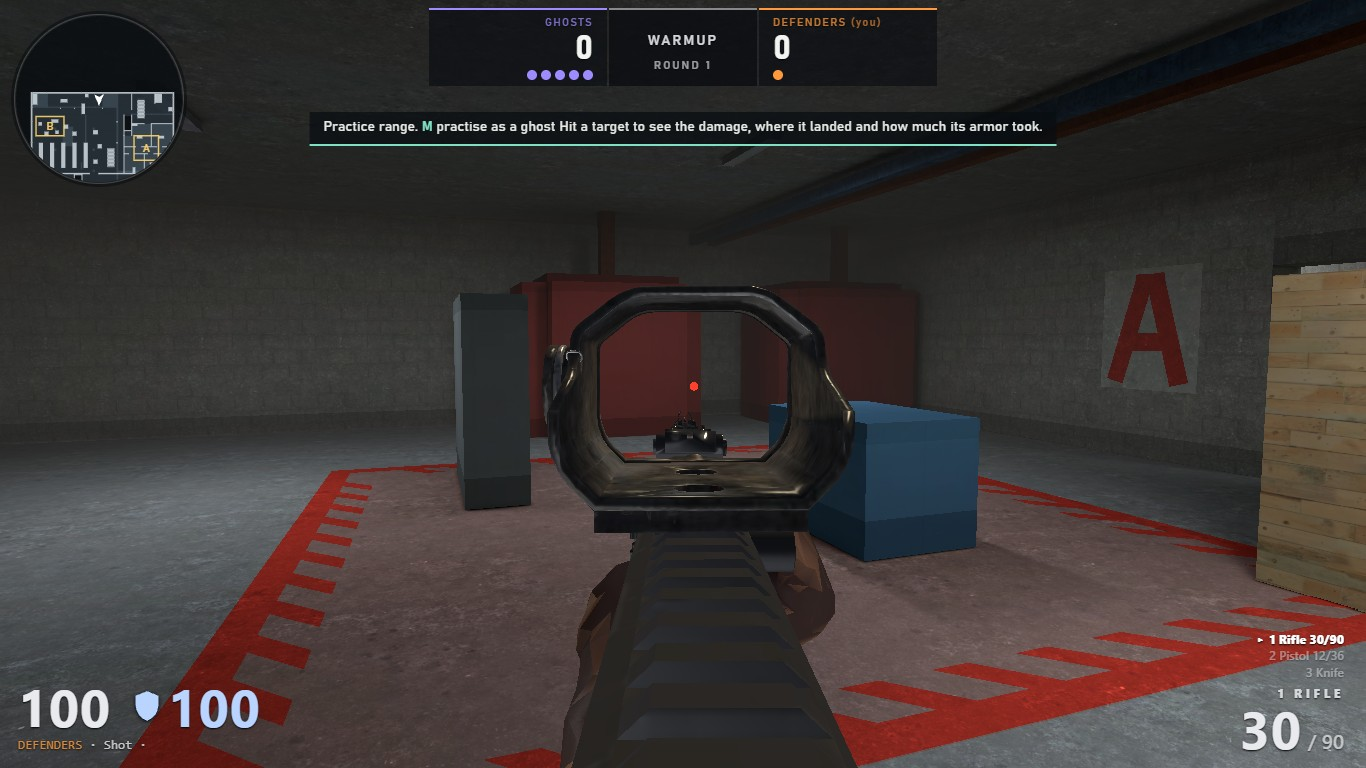
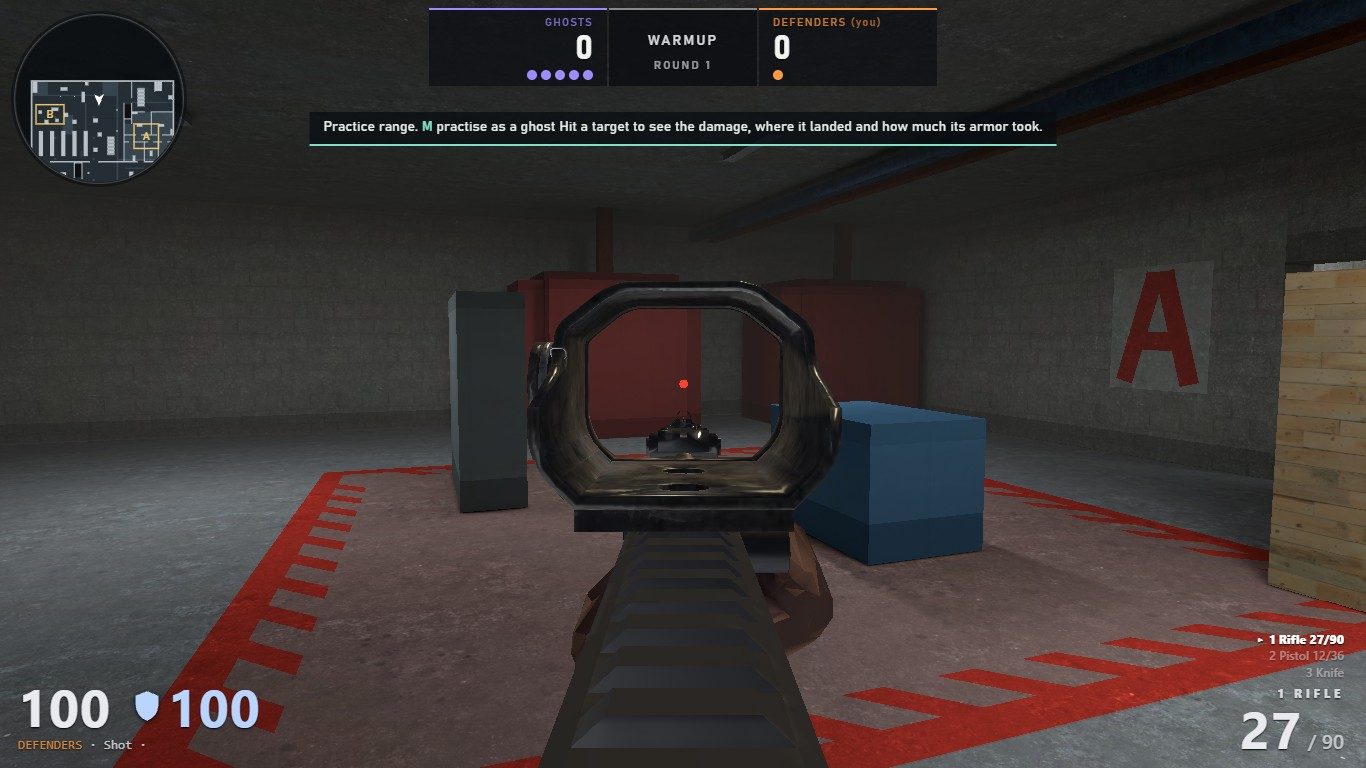
Package Q: before/after review pictures and numbers, compare tool, handoff and roadmap
Before and after at Low and High, lit yard and dark basement, hip, aimed, running, firing and third person
(docs/review/polish), with draw calls and software-rendering frame times averaged over 60 frames, with and
without anti-aliasing. tools/compare-shots.mjs builds side-by-sides with 3x edge crops.

diff --git a/docs/review/polish/README.md b/docs/review/polish/README.md
@@ -1,0 +1,19 @@
+# Package Q review pictures (visual and feel polish)
+
+Made by `tools/polish-shots.mjs` (headless Chrome, SwiftShader software GL, scratch ports 8097 / 5197; the "before"
+set from a temporary checkout of `main` at `321128f` served on 5196) and composed by `tools/compare-shots.mjs`.
+Warehouse, 1366 x 768, red dot sight, practice range.
+
+- `before/`, `after/`: the same views. `lit` = the yard in sunlight, `dark` = the basement car park at site A.
+  `hip`, `aimed` (frozen fully aimed), `running` (frozen 0.45 s into a forward run; the camera is held at the spot,
+  the weapon shows the bob and lean from the player's real 5.2 m/s), `firing` (frozen on the frame of a burst's third
+  shot), `third-person` (a practice target STAGED at the spot by replacing its position and pose in the frame the
+  presenter receives; the first-person layer hidden).
+- `compare/`: before | after side by side; for first-person views also a 3x nearest-neighbour crop of the rifle's
+  top edge and the red dot (anti-aliasing: staircase edges before, smooth after).
+- `report.json` in each set: draw calls, the frame time measured as wall-clock time between 60 frames (software
+  rendering: the CPU's cost of drawing, NOT a GPU's), and in `after/` the probe light at each spot.
+
+These are still frames from a software renderer. Nothing here was seen on a real GPU, in motion, or with a mouse.
+The before/after comparison is not byte-gateable (lighting, reflections and anti-aliasing change every weapon pixel
+on purpose): it is a side-by-side review.
